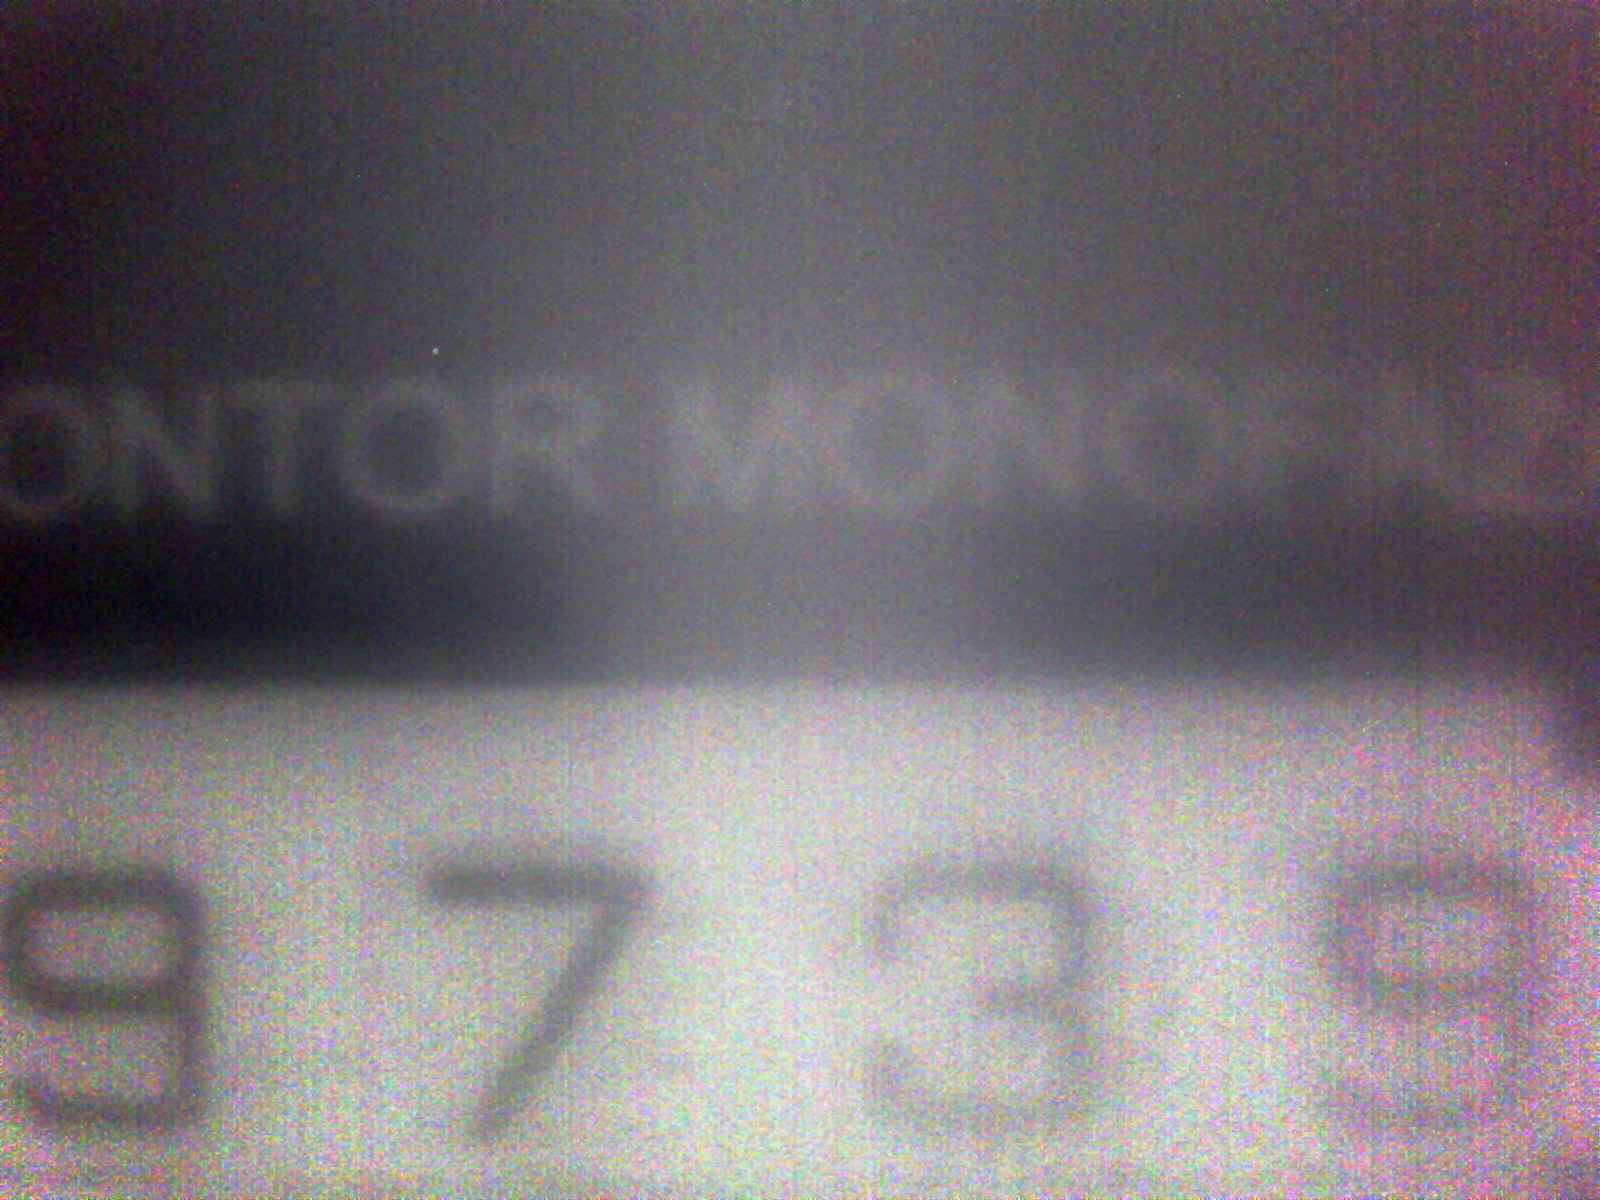
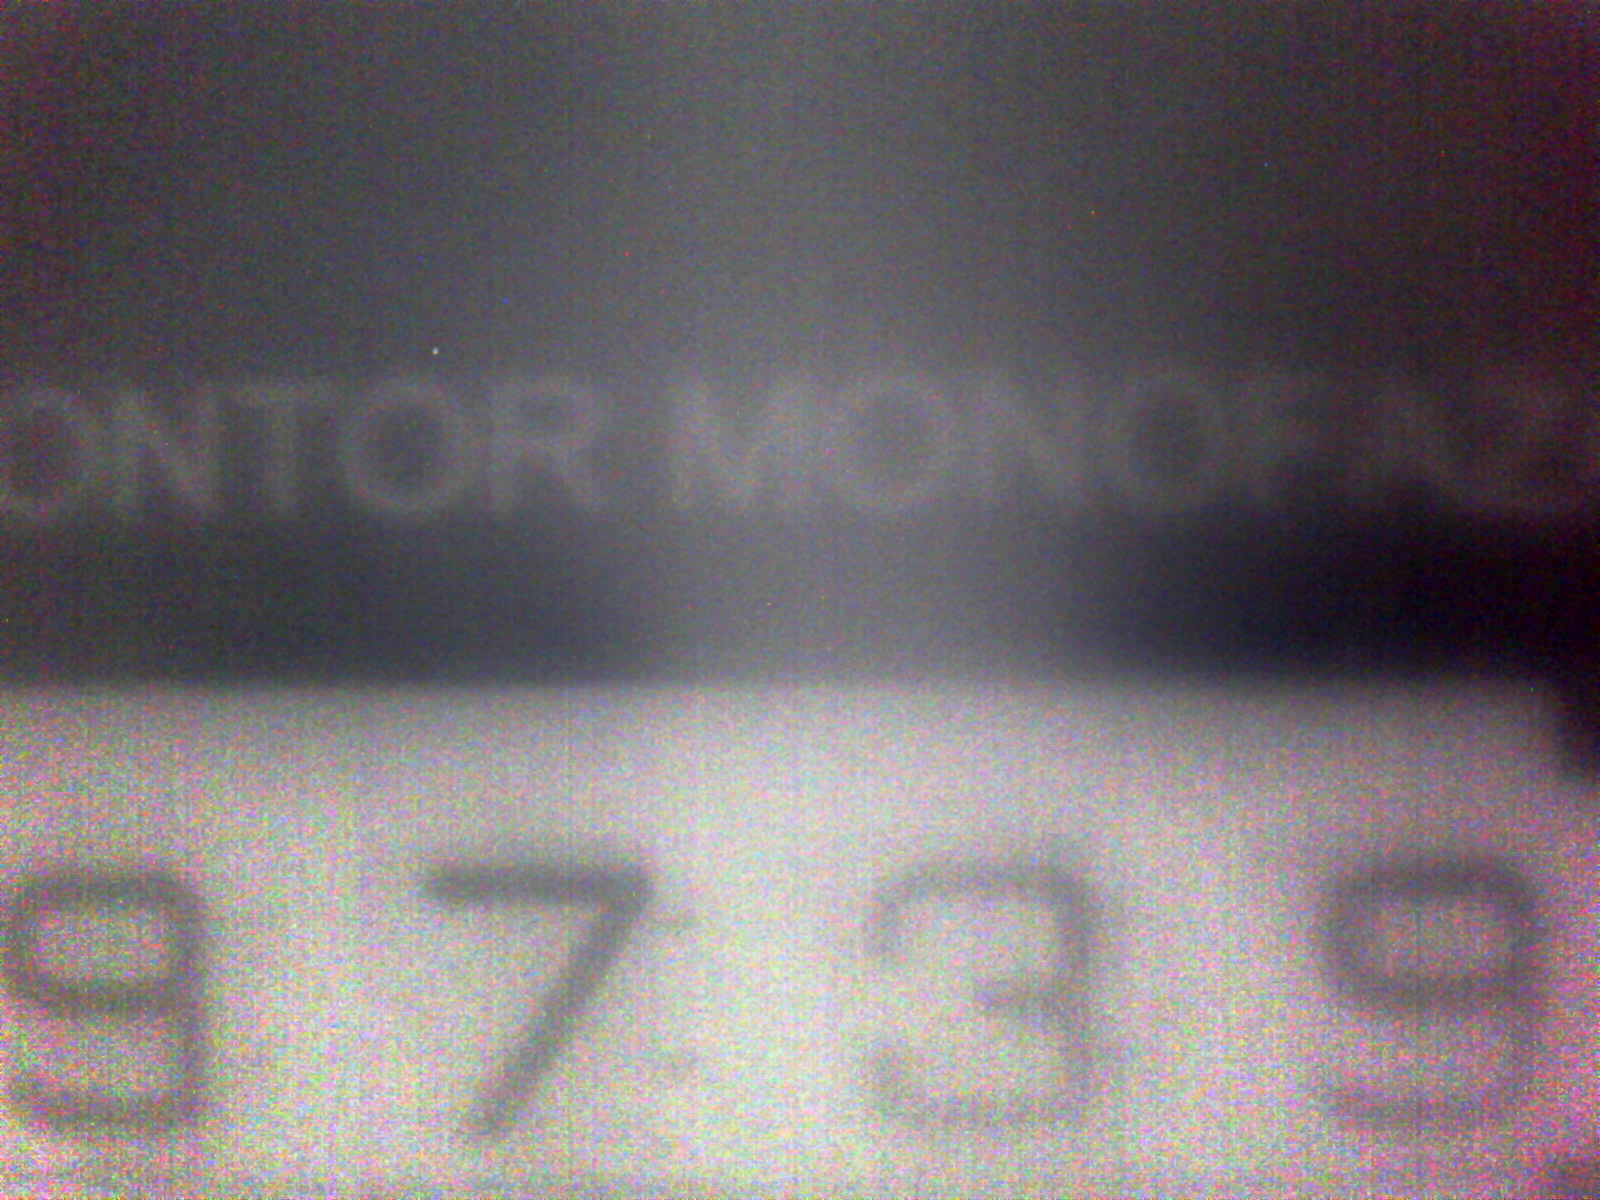
Apply SSE startup fix and sync local app artifacts

diff --git a/backend/app.py b/backend/app.py
@@ -207,6 +207,8 @@ temperature_sensor = None
 scheduler = None
 usb_reader = None
 sse_clients = Queue()
+sse_subscribers = 0
+sse_subscribers_lock = threading.Lock()
 
 # Configurable throttling system
 THROTTLE_INTERVAL = 3600  # Default: 1 hour in seconds
@@ -1614,11 +1616,12 @@ class USBDataProcessor:
                         'change_reason': 'usb_update'
                     }
                 }
-                try:
-                    sse_clients.put_nowait(temperature_data)
-                    self.logger.info(f"Temperature SSE: {temp_c:.2f}°C")
-                except:
-                    pass  # Queue full
+                if has_sse_subscribers():
+                    try:
+                        sse_clients.put_nowait(temperature_data)
+                        self.logger.info(f"Temperature SSE: {temp_c:.2f}°C")
+                    except:
+                        pass  # Queue full
 
             # Send SSE updates for humidity
             if humidity_pct is not None:
@@ -1632,11 +1635,12 @@ class USBDataProcessor:
                         'sensor_id': 'micropython_device'
                     }
                 }
-                try:
-                    sse_clients.put_nowait(humidity_data)
-                    self.logger.info(f"Humidity SSE: {humidity_pct:.1f}%")
-                except:
-                    pass
+                if has_sse_subscribers():
+                    try:
+                        sse_clients.put_nowait(humidity_data)
+                        self.logger.info(f"Humidity SSE: {humidity_pct:.1f}%")
+                    except:
+                        pass
 
             # Send SSE updates for pressure
             if pressure_hpa is not None:
@@ -1650,11 +1654,12 @@ class USBDataProcessor:
                         'sensor_id': 'micropython_device'
                     }
                 }
-                try:
-                    sse_clients.put_nowait(pressure_data)
-                    self.logger.info(f"Pressure SSE: {pressure_hpa:.1f} hPa")
-                except:
-                    pass
+                if has_sse_subscribers():
+                    try:
+                        sse_clients.put_nowait(pressure_data)
+                        self.logger.info(f"Pressure SSE: {pressure_hpa:.1f} hPa")
+                    except:
+                        pass
 
             # Send SSE updates for air quality
             if air_data.get('co2_ppm') is not None:
@@ -1672,11 +1677,12 @@ class USBDataProcessor:
                         'sensor_id': 'micropython_device'
                     }
                 }
-                try:
-                    sse_clients.put_nowait(air_quality_data)
-                    self.logger.info(f"Air Quality SSE: {air_data.get('co2_ppm', 0):.1f} ppm CO2")
-                except:
-                    pass
+                if has_sse_subscribers():
+                    try:
+                        sse_clients.put_nowait(air_quality_data)
+                        self.logger.info(f"Air Quality SSE: {air_data.get('co2_ppm', 0):.1f} ppm CO2")
+                    except:
+                        pass
 
             # Store to database (controlled by unified throttling)
             # Note: Timestamps already updated above (before throttling check)
@@ -1807,7 +1813,13 @@ def events() -> Response:
     """
     def event_stream():
         """Generator function for the SSE stream."""
+        global sse_subscribers
+        registered = False
         try:
+            with sse_subscribers_lock:
+                sse_subscribers += 1
+                registered = True
+
             # Send immediate connection confirmation with latest data
             yield f"data: {json.dumps({'type': 'connected', 'timestamp': time.time()})}\n\n"
 
@@ -1916,6 +1928,10 @@ def events() -> Response:
         except Exception as e:
             logger.error(f"SSE generator error: {e}")
             return
+        finally:
+            if registered:
+                with sse_subscribers_lock:
+                    sse_subscribers = max(0, sse_subscribers - 1)
 
     return Response(
         event_stream(),
@@ -2012,6 +2028,12 @@ def initialize_application() -> bool:
     except Exception as e:
         logger.error(f"Failed to initialize application: {e}")
         return False
+
+
+def has_sse_subscribers() -> bool:
+    """Returns True when at least one SSE client is connected."""
+    with sse_subscribers_lock:
+        return sse_subscribers > 0
 
 
 def cleanup_application():